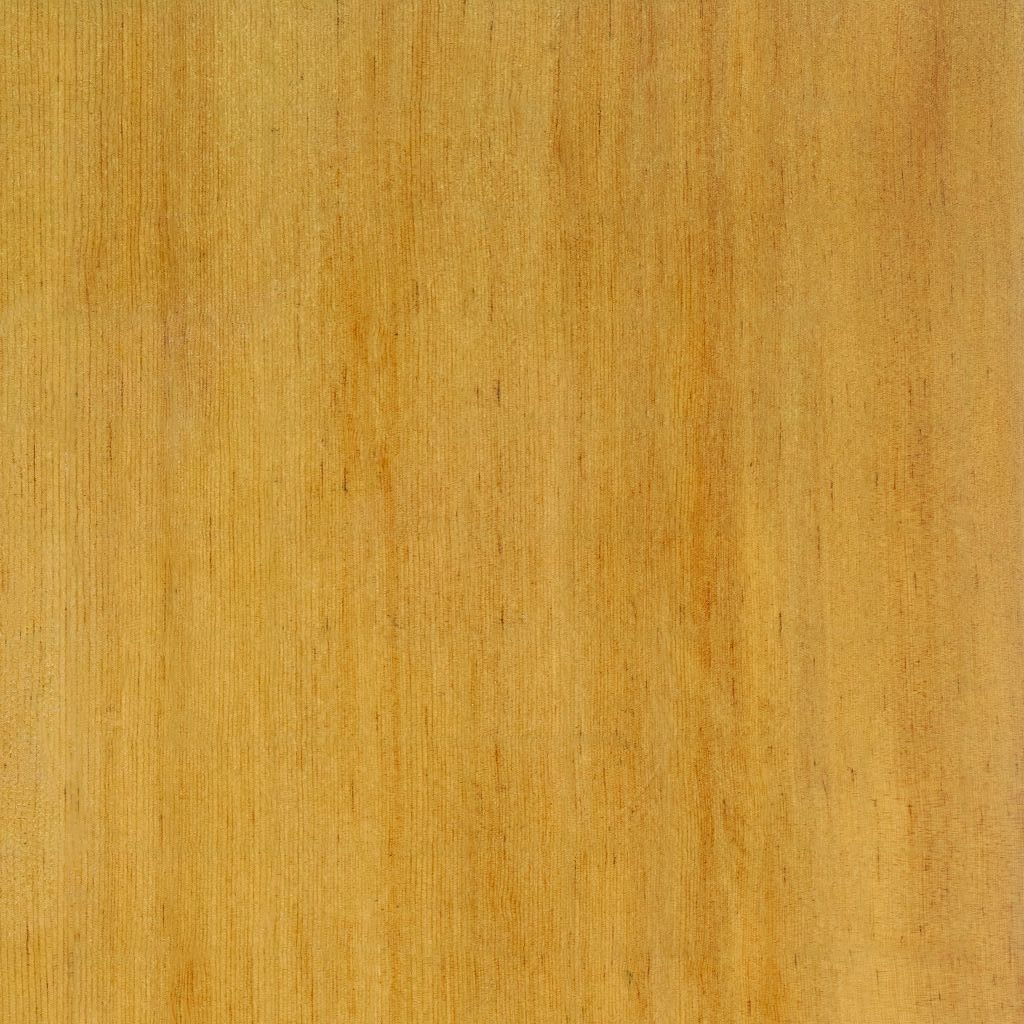
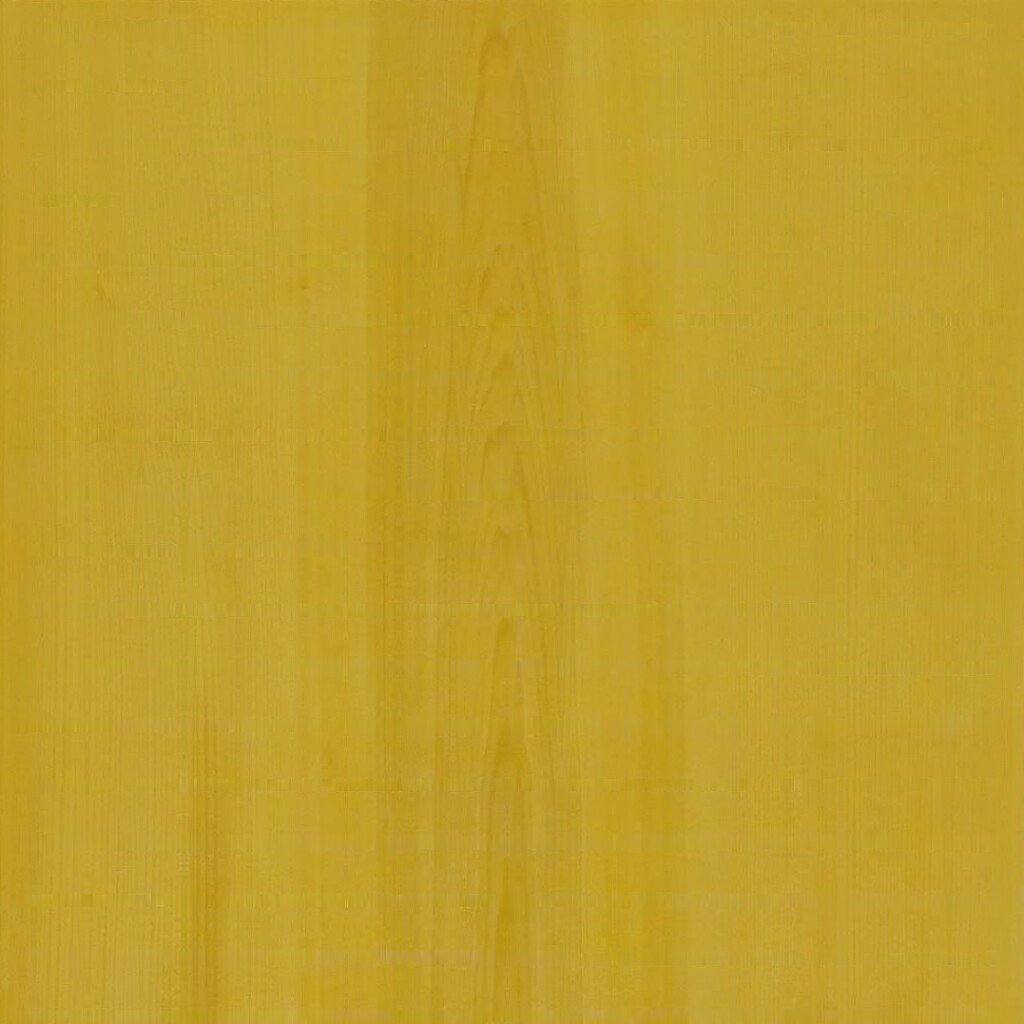
Board textures cut from photographs of real kaya boards; the app draws the board7 grain for now
pwa/art/board_textures/ holds five candidate 1024-square wood textures, the product photos they were cut from, the texture the app shipped with until now, and the script that turns a photo into a texture: it rectifies the board, traces the 19×19 lines and star points, and refills them along the grain (a generic inpaint smooths the fine grain and the grid ghosts back as a lattice of smooth strips), then flattens the lighting. The folder is source-only; it is not in the static asset list, so nothing under it deploys. The shipped file is a copy of one of them, and the service worker's per-version precache carries the swap to installed clients on the next deploy.

Claude-Session: https://claude.ai/code/session_01FyHmodoQYpQDUYeDPbo6W1

diff --git a/pwa/art/board_textures/extract_grain.py b/pwa/art/board_textures/extract_grain.py
@@ -1,0 +1,76 @@
+import cv2, numpy as np, sys
+from scipy.signal import find_peaks
+from scipy.ndimage import uniform_filter1d
+src, tag = sys.argv[1], sys.argv[2]
+img = cv2.imread(src)
+hsv = cv2.cvtColor(img, cv2.COLOR_BGR2HSV)
+t,_ = cv2.threshold(hsv[...,1],0,255,cv2.THRESH_BINARY+cv2.THRESH_OTSU)
+mask = ((hsv[...,0] > 8) & (hsv[...,0] < 40) & (hsv[...,1] > t) & (hsv[...,2] > 80)).astype(np.uint8)*255
+mask = cv2.morphologyEx(mask, cv2.MORPH_CLOSE, np.ones((25,25),np.uint8))
+mask = cv2.morphologyEx(mask, cv2.MORPH_OPEN, np.ones((25,25),np.uint8))
+cnts,_ = cv2.findContours(mask, cv2.RETR_EXTERNAL, cv2.CHAIN_APPROX_SIMPLE)
+c = max(cnts, key=cv2.contourArea)
+quad = cv2.approxPolyDP(c, 0.02*cv2.arcLength(c,True), True).reshape(-1,2)
+if len(quad) != 4:
+    quad = cv2.boxPoints(cv2.minAreaRect(c)).astype(int)
+s = quad.sum(1); d = np.diff(quad,axis=1).ravel()
+tl,br,tr,bl = quad[s.argmin()],quad[s.argmax()],quad[d.argmin()],quad[d.argmax()]
+w = int(max(np.linalg.norm(tr-tl), np.linalg.norm(br-bl))); h = int(max(np.linalg.norm(bl-tl), np.linalg.norm(br-tr)))
+M = cv2.getPerspectiveTransform(np.float32([tl,tr,br,bl]), np.float32([[0,0],[w,0],[w,h],[0,h]]))
+rect = cv2.warpPerspective(img, M, (w,h), flags=cv2.INTER_CUBIC).astype(np.float64)
+gray = rect.mean(2)
+bg = cv2.GaussianBlur(gray,(0,0),6); dark = np.clip(bg-gray,0,None)
+col = dark.mean(0); row = dark.mean(1)
+pitch = min(w,h)/20
+pc,_ = find_peaks(col, prominence=col.max()*0.25, distance=int(pitch*0.6))
+pr,_ = find_peaks(row, prominence=row.max()*0.25, distance=int(pitch*0.6))
+print(f'{tag}: board {w}x{h}px, lines {len(pc)}x{len(pr)}')
+sp = np.median(np.diff(pc))
+R = max(2, int(round(sp*0.09))); S = max(4, int(round(sp*0.2)))
+out = rect.copy()
+def vfill(x, y0, y1):
+    y0=max(0,y0); y1=min(h-1,y1)
+    for yy in range(y0+1,y1):
+        t=(yy-y0)/(y1-y0); out[yy,x]=(1-t)*out[y0,x]+t*out[y1,x]
+for y in pr:
+    lo,hi=max(0,y-S),min(h,y+S+1)
+    band=uniform_filter1d(dark[lo:hi],9,axis=1); ys=lo+band.argmax(0)
+    ys=np.round(uniform_filter1d(ys.astype(float),15)).astype(int)
+    for x in range(w): vfill(x, ys[x]-R-1, ys[x]+R+1)
+g2=out.mean(2); d2=np.clip(cv2.GaussianBlur(g2,(0,0),6)-g2,0,None)
+for x in pc:
+    lo,hi=max(0,x-S),min(w,x+S+1)
+    band=uniform_filter1d(d2[:,lo:hi],9,axis=0); xs=lo+band.argmax(1)
+    xs=np.round(uniform_filter1d(xs.astype(float),15)).astype(int)
+    for y in range(h):
+        x0,x1=xs[y]-R-1,xs[y]+R+1
+        if x0<0 or x1>=w: continue
+        for xx in range(x0+1,x1):
+            t=(xx-x0)/(x1-x0); out[y,xx]=(1-t)*out[y,max(0,x0-(xx-x0))]+t*out[y,min(w-1,x1+(x1-xx))]
+if len(pc)==19 and len(pr)==19:
+    r=int(round(sp*0.28))
+    for i in (3,9,15):
+        for j in (3,9,15):
+            cx,cy=int(pc[i]),int(pr[j])
+            for xx in range(cx-r,cx+r+1):
+                dy=int(np.sqrt(r*r-(xx-cx)**2)); vfill(xx, cy-dy-1, cy+dy+1)
+for it in range(2):
+    g=out.mean(2); d=cv2.GaussianBlur(g,(0,0),6)-g
+    resid=cv2.dilate((d>12).astype(np.uint8),np.ones((3,3),np.uint8))
+    for x in range(w):
+        m=resid[:,x]; y=0
+        while y<h:
+            if m[y]:
+                y0=y
+                while y<h and m[y]: y+=1
+                vfill(x, y0-1, y)
+            else: y+=1
+big=cv2.GaussianBlur(out,(0,0),max(40,int(sp*2)))
+flat=np.clip(out/big*out.reshape(-1,3).mean(0),0,255)
+# crop to the grid extent plus half a spacing (inside the bevelled edge), then square
+x0,x1=int(pc[0]-sp/2),int(pc[-1]+sp/2); y0,y1=int(pr[0]-sp/2),int(pr[-1]+sp/2)
+sq=flat[max(0,y0):y1, max(0,x0):x1]; side=min(sq.shape[:2]); sq=sq[:side,:side]
+cv2.imwrite(f'{tag}_native.png', sq.astype(np.uint8))
+up=cv2.resize(sq,(1024,1024),interpolation=cv2.INTER_LANCZOS4 if side<1024 else cv2.INTER_AREA)
+cv2.imwrite(f'{tag}_1024.png', np.clip(up,0,255).astype(np.uint8))
+print(f'{tag}: native square {side}px')

diff --git a/pwa/art/board_textures/README.md b/pwa/art/board_textures/README.md
@@ -1,0 +1,16 @@
+# Board textures
+
+Candidate wood textures for the board background, `pwa/lib/wgo/wood_1024.jpg`. The shipped file is a plain copy of one of the `board<N>_1024.jpg` here; swapping it is `cp` plus a deploy (the service worker precache is rebuilt per app version, so installed clients pick the new one up on their next update).
+
+`sources/` holds the photographs each texture was cut from: product photos of real kaya boards with the grid on them. `extract_grain.py <photo> <tag>` turns one into `<tag>_1024.png`: it segments the board from the backdrop, rectifies the perspective, finds the 19×19 lines from their darkness profiles and traces each one's real path, then refills them grain-aware (horizontal lines by interpolating every column along the grain, vertical lines by mirror-blending the neighbouring columns, star points column-wise), flattens the photo's lighting falloff and crops to the grid extent before scaling to 1024. A generic inpaint is not a substitute: it smooths the fine grain and the grid ghosts back as a lattice of smooth strips. Needs `opencv-python-headless` and scipy in the venv.
+
+The grain runs vertically in every file, which is the orientation the board draws it in (player to player).
+
+| File | Source board px | Notes |
+| --- | --- | --- |
+| original | – | the texture the app shipped with before any of these; no photo behind it |
+| board3 | 1175 | straight masame, clean |
+| board4 | 1101 | mild figure, knot near one edge |
+| board6 | 1010 | strongest figure, cleanest fill (black backdrop gave the lines no halo) |
+| board7 | 1077 | same board as 8 under flatter light; faint lattice residue at native resolution |
+| board8 | 1156 | most dramatic figure; faint lattice residue at native resolution |
